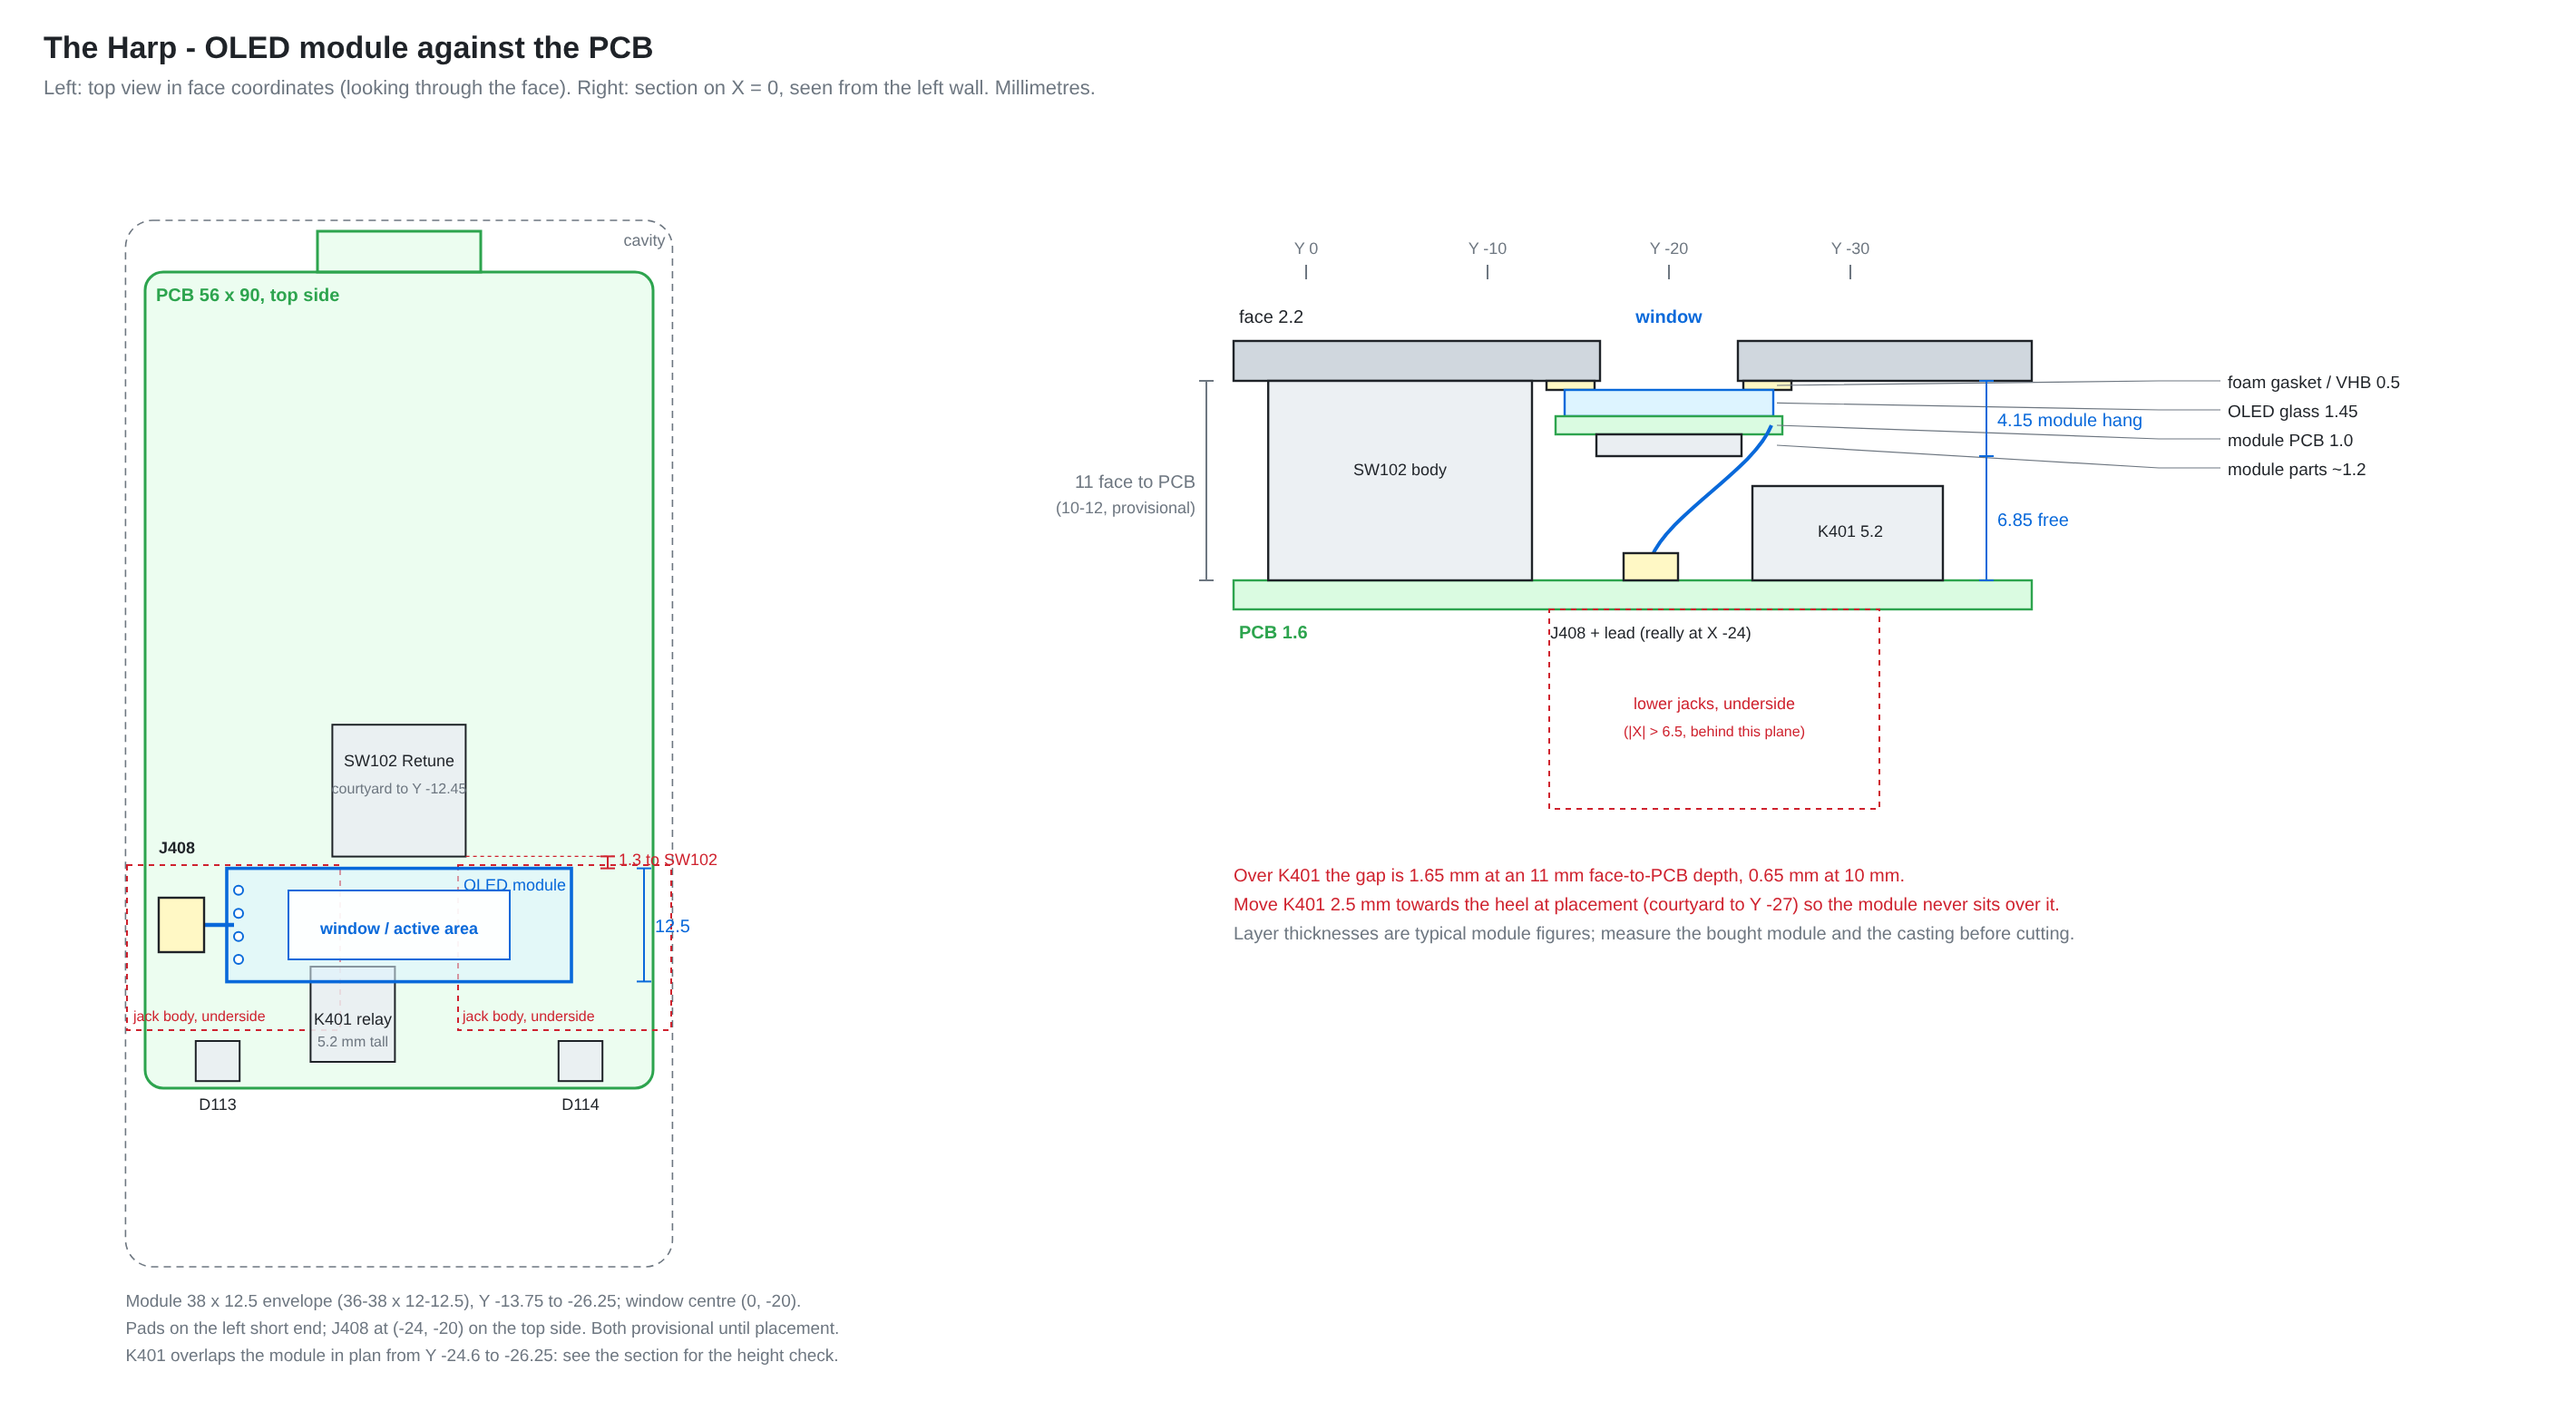
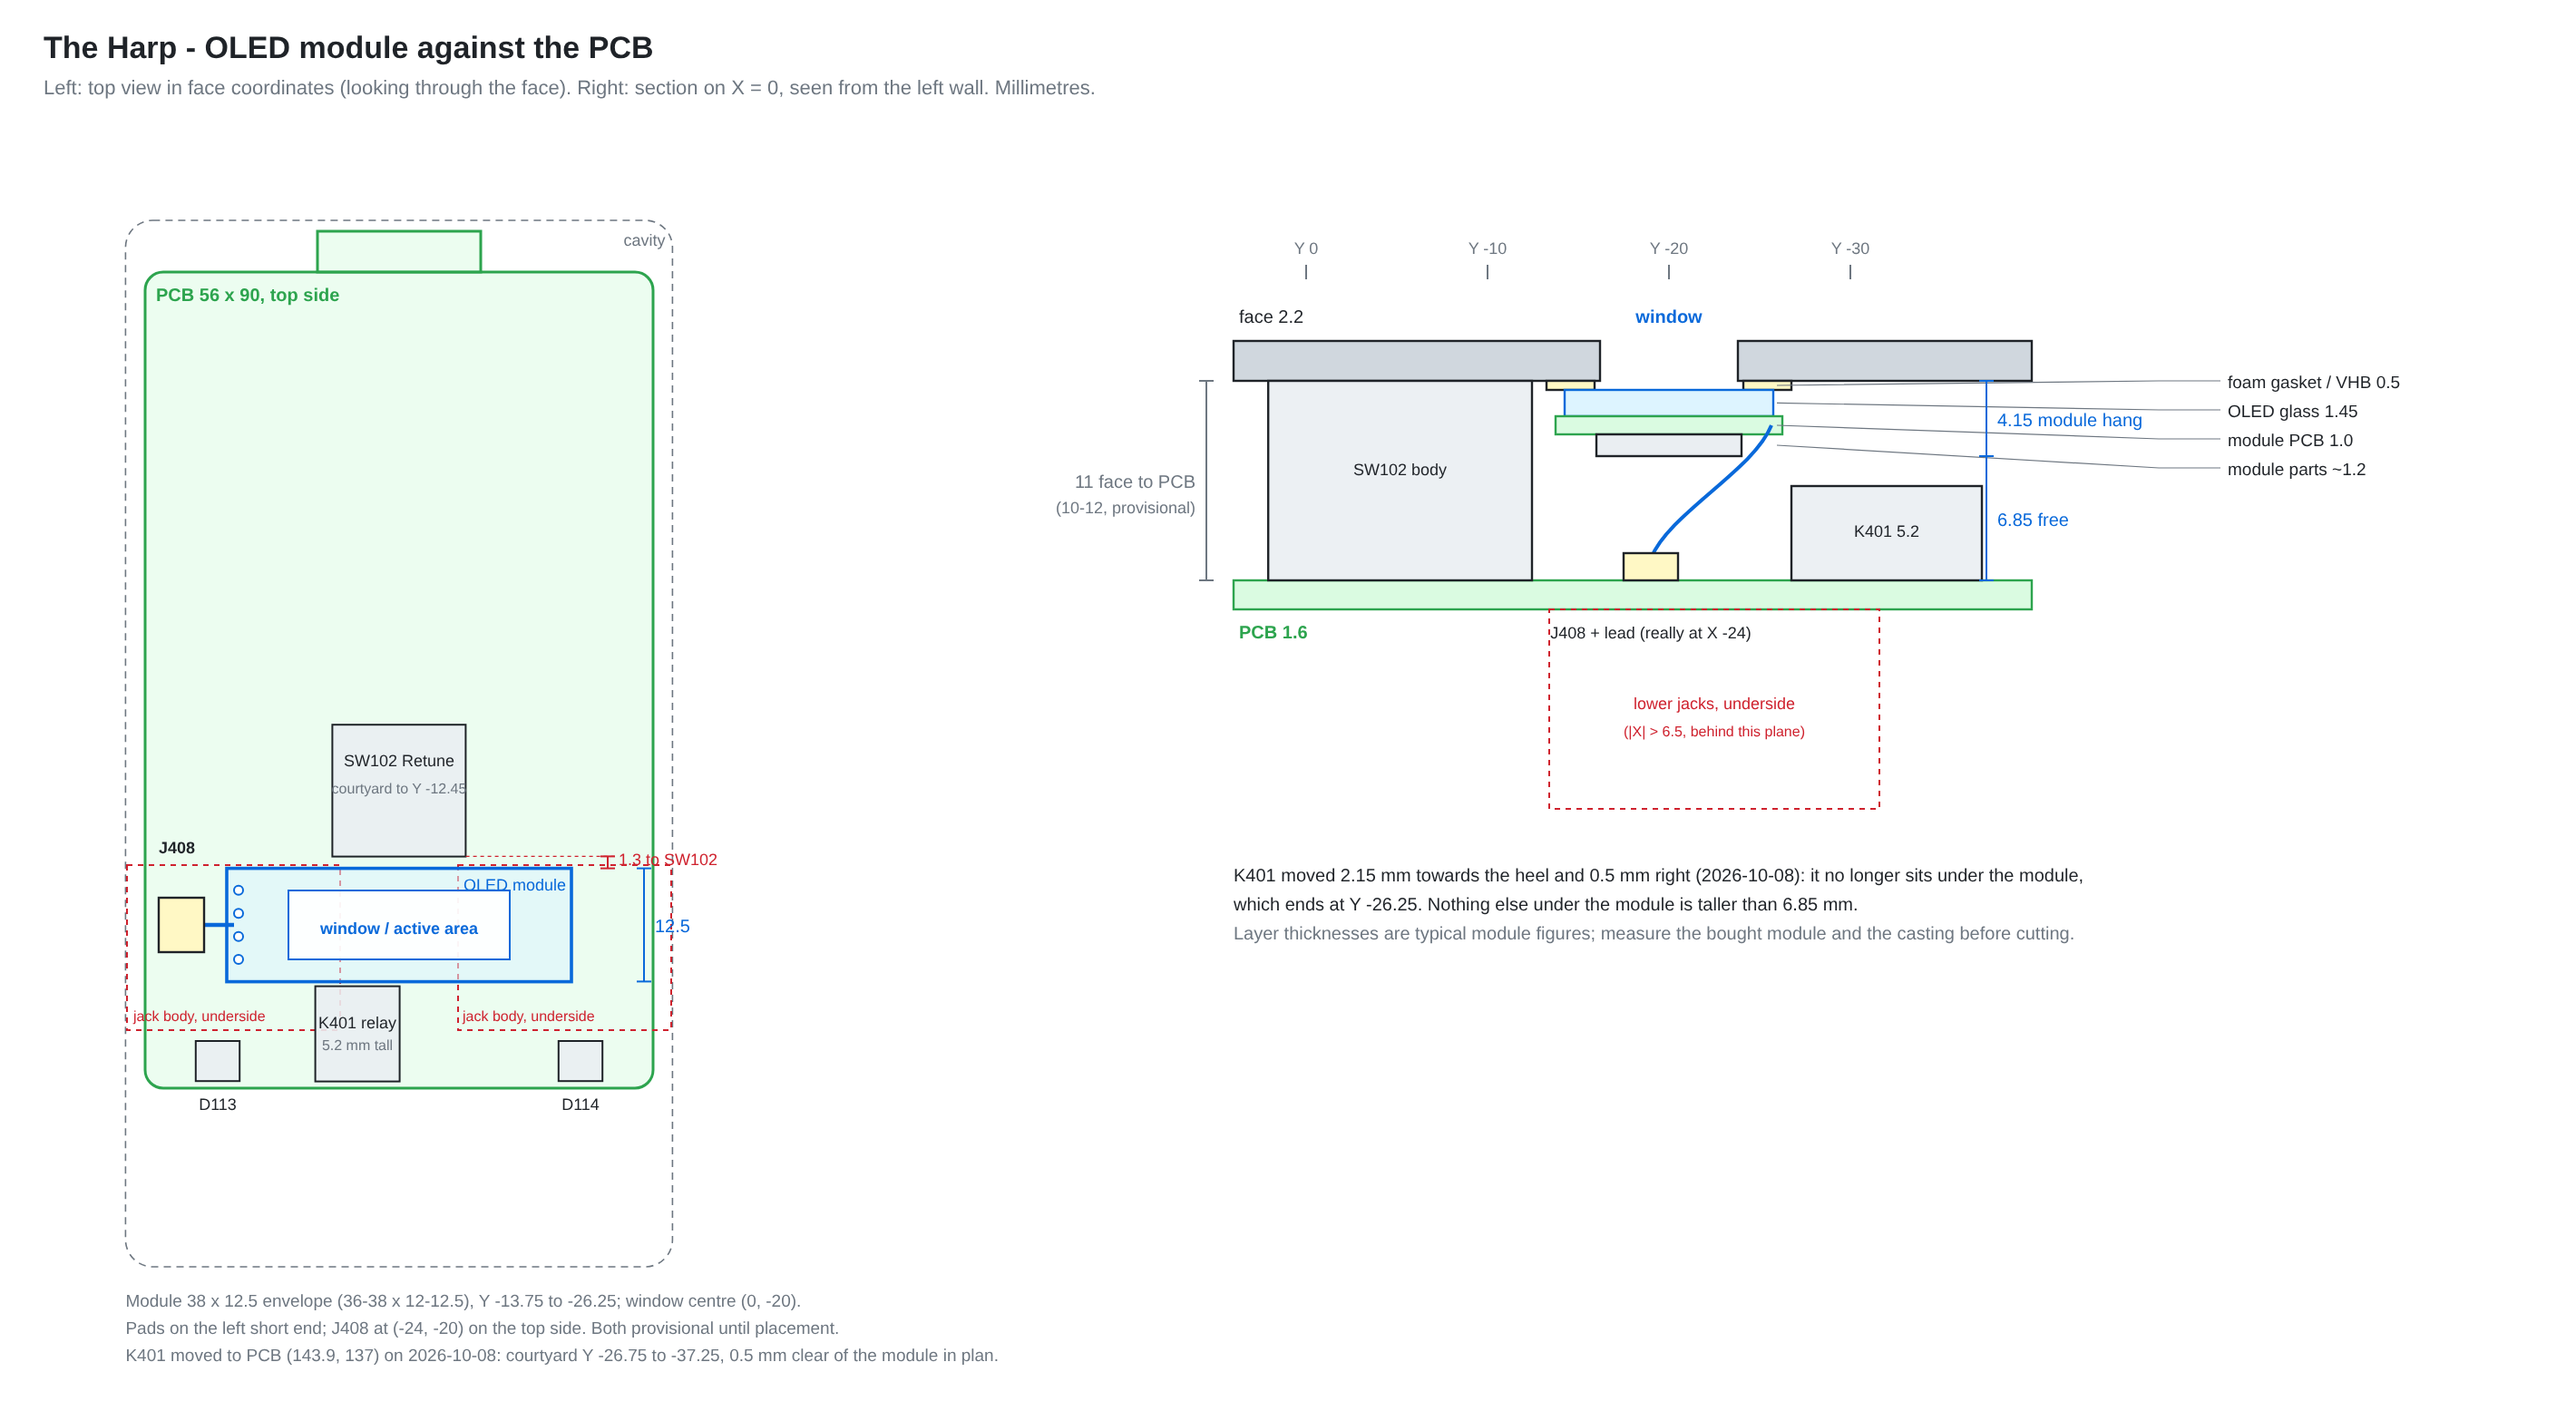
Move K401 out from under the OLED module
K401 from PCB (143.4, 134.85) to (143.9, 137.0), face (-4.6, -32.0): 2.15 mm
towards the heel and 0.5 mm right. Its courtyard now ends 0.5 mm short of the
module edge (Y -26.25), 0.12 mm clear of Q402 and 0.75 mm from the board edge;
a straight 2.5 mm move would have overlapped Q402. No tracks to move (board
unrouted). Drawing and docs updated.

Claude-Session: https://claude.ai/code/session_016hDejPHPgG8auBLMyByYZK

diff --git a/scripts/oled_drawings/oled_drawings.py b/scripts/oled_drawings/oled_drawings.py
@@ -30,7 +30,7 @@ HOLES = [  # (label, x, y, diameter)
 ]
 # courtyards on the board (face X0, X1, Y0, Y1) and part height above the board
 SW102_CY = (-7.35, 7.35, -12.45, 2.09)
-K401_CY = (-9.75, -0.45, -35.10, -24.60); K401_H = 5.2
+K401_CY = (-9.25, 0.05, -37.25, -26.75); K401_H = 5.2       # moved 2026-10-08, PCB (143.9, 137)
 D113_CY = (-22.42, -17.58, -37.21, -32.79)
 D114_CY = (17.58, 22.42, -37.21, -32.79)
 JACK_LO = [(-30.0, -6.5, -31.6, -13.4), (6.5, 30.0, -31.6, -13.4)]     # lower jack bodies, underside
@@ -169,8 +169,8 @@ def pcb_relation():
     s.text(*P(0, -2.5), 'SW102 Retune', 9, INK, 'middle')
     s.text(*P(0, -5.5), 'courtyard to Y -12.45', 8, MUTED, 'middle')
     box(K401_CY, INK, '#eaeef2', op=0.9)
-    s.text(*P(-5.1, -31.0), 'K401 relay', 9, INK, 'middle')
-    s.text(*P(-5.1, -33.4), '5.2 mm tall', 8, MUTED, 'middle')
+    s.text(*P(-4.6, -31.4), 'K401 relay', 9, INK, 'middle')
+    s.text(*P(-4.6, -33.8), '5.2 mm tall', 8, MUTED, 'middle')
     for cy, lb in ((D113_CY, 'D113'), (D114_CY, 'D114')):
         box(cy, INK, '#eaeef2', op=0.9)
         s.text(*P((cy[0] + cy[1]) / 2, cy[2] - 3.2), lb, 9, INK, 'middle')
@@ -192,7 +192,7 @@ def pcb_relation():
     s.text(P(mx1, 0)[0] + 26, P(0, my1)[1] - 2, f'{SW102_CY[2] - my1:.1f} to SW102', 9, WARN)
     notes = [f'Module {MODULE[0]:g} x {MODULE[1]} envelope (36-38 x 12-12.5), Y {my1:.2f} to {my0:.2f}; window centre (0, {OLED_Y:g}).',
              'Pads on the left short end; J408 at (-24, -20) on the top side. Both provisional until placement.',
-             'K401 overlaps the module in plan from Y -24.6 to -26.25: see the section for the height check.']
+             'K401 moved to PCB (143.9, 137) on 2026-10-08: courtyard Y -26.75 to -37.25, 0.5 mm clear of the module in plan.']
     for k, t in enumerate(notes):
         s.text(OX - CAV_W / 2 * S, OY + CAV_H / 2 * S + 22 + 15 * k, t, 9.5, MUTED)
     # ------------------------------------------------ section on X = 0
@@ -233,7 +233,7 @@ def pcb_relation():
     slab(SW102_CY[3], SW102_CY[2], 0, BOARD_GAP, INK, '#eaeef2', 0.9)
     s.text(*Q((SW102_CY[2] + SW102_CY[3]) / 2, 5.2), 'SW102 body', 9, INK, 'middle')
     slab(K401_CY[3], K401_CY[2], BOARD_GAP - K401_H, BOARD_GAP, INK, '#eaeef2', 0.9)
-    s.text(*Q(-30, BOARD_GAP - 2.4), 'K401 5.2', 9, INK, 'middle')
+    s.text(*Q(-32, BOARD_GAP - 2.4), 'K401 5.2', 9, INK, 'middle')
     xa, za = Q(-13.4, BOARD_GAP + BOARD_T); xb, zb = Q(-31.6, BOARD_GAP + BOARD_T + 11)
     s.rect(xa, za, xb - xa, zb - za, WARN, 'none', 1, '3 3')
     s.text(*Q(-22.5, BOARD_GAP + BOARD_T + 5.5), 'lower jacks, underside', 9, WARN, 'middle')
@@ -251,9 +251,8 @@ def pcb_relation():
     s.text(Q(YL + 1.5, 0)[0] - 6, Q(0, BOARD_GAP / 2)[1] + 18, '(10-12, provisional)', 9, MUTED, 'end')
     ty = Q(0, BOARD_GAP + BOARD_T + 15)[1]
     for k, (t, c) in enumerate([
-        (f'Over K401 the gap is {BOARD_GAP - hang - K401_H:.2f} mm at an 11 mm face-to-PCB depth, '
-         f'{10 - hang - K401_H:.2f} mm at 10 mm.', WARN),
-        ('Move K401 2.5 mm towards the heel at placement (courtyard to Y -27) so the module never sits over it.', WARN),
+        ('K401 moved 2.15 mm towards the heel and 0.5 mm right (2026-10-08): it no longer sits under the module,', INK),
+        (f'which ends at Y {OLED_Y - MODULE[1] / 2:g}. Nothing else under the module is taller than {BOARD_GAP - hang:.2f} mm.', INK),
         ('Layer thicknesses are typical module figures; measure the bought module and the casting before cutting.', MUTED)]):
         s.text(Q(YL, 0)[0], ty + 16 * k, t, 10, c)
     s.save('oled-pcb-relation.svg')

diff --git a/Documents/Z04-R-0001-A_The_Harp_Design_Report/chapters/05_pcb_mechanical.tex b/Documents/Z04-R-0001-A_The_Harp_Design_Report/chapters/05_pcb_mechanical.tex
@@ -75,7 +75,7 @@ The 0.91\,in module (envelope 36--38\,mm by 12--12.5\,mm, active area 22.384\,mm
 
 The module hangs from the face, not the PCB: a 3D-printed carrier, as the Timekeeper's TFT frame, is bonded to the inside of the face with VHB tape, with a 0.5\,mm foam gasket round the glass. It is not screwed to the board because the lower jack bodies sit under the board at $|X| > 6.5$ and the MCU fills the middle. Four wires run from the module pads to \req{J408}, a JST SH 4-way on the top side at about face ($-24$, $-20$).
 
-The module hangs about 4.15\,mm below the face, leaving 6.85\,mm to the PCB at the provisional 11\,mm depth. The relay \req{K401}, 5.2\,mm tall, overlaps the module in plan from Y $-24.6$ to $-26.25$ with only 1.65\,mm to spare, so it moves 2.5\,mm towards the heel at placement. The drawings are in \texttt{docs/images/oled-face-cutout.png} and \texttt{docs/images/oled-pcb-relation.png}.
+The module hangs about 4.15\,mm below the face, leaving 6.85\,mm to the PCB at the provisional 11\,mm depth. The relay \req{K401}, 5.2\,mm tall, overlapped the module in plan from Y $-24.6$ to $-26.25$ with only 1.65\,mm to spare, so on 2026-10-08 it was moved 2.15\,mm towards the heel and 0.5\,mm right, to face ($-4.6$, $-32.0$); its courtyard now ends 0.5\,mm short of the module edge. The drawings are in \texttt{docs/images/oled-face-cutout.png} and \texttt{docs/images/oled-pcb-relation.png}.
 
 \section{Zoning}
 Signal runs right to left as on The Alchemist: IN and EXP enter on the right wall, OUT~L and OUT~R leave on the left. The input and expression buffers sit at the right-hand end of the lower band next to \req{J402}/\req{J406}, the output buffers and the relay at the left-hand end next to \req{J403}/\req{J404}, and the H750 with the flash in the middle. The codec, its VCOM buffers and the ADC driver sit under the pot rows. The buck converter and its inductor sit on the DC tab, as far from the input buffer as the board allows.

diff --git a/Documents/Z04-R-0001-A_The_Harp_Design_Report/chapters/08_risks_open_items.tex b/Documents/Z04-R-0001-A_The_Harp_Design_Report/chapters/08_risks_open_items.tex
@@ -7,7 +7,7 @@
   \item \textbf{CPU load} of 24 strings, Jawari and the tracker together has not been measured.
   \item \textbf{Internal flash.} Whether the image fits the H750's 128\,KB is unknown.
   \item \textbf{AK4621EF lifecycle,} already flagged in the Timekeeper's BOM audit.
-  \item \textbf{OLED over the relay}: the module hangs within 1.65\,mm of \req{K401} unless the relay moves 2.5\,mm towards the heel at placement.
+  \item \textbf{Height under the OLED}: parts placed under the module must stay below about 6.8\,mm; \req{K401} was moved out from under it on 2026-10-08.
 \end{itemize}
 
 \section{Open Items}
@@ -45,7 +45,7 @@ Writing this report found three small disagreements, to be corrected at the sour
   \item \textbf{Firmware first on the Timekeeper board.} String bank with a fixed tuning, then Jawari, then the tuning manager in Key and Drone modes. Measure the CPU load and settle the TBC ranges by ear.
   \item Chord tracker and Follow mode, offline against reference recordings, then on the board.
   \item Open the schematic in KiCad and run ERC. Close the confirmation items.
-  \item \emph{Update PCB from Schematic}. Place \req{J408} and move \req{K401} to about Y $-32.4$ for the OLED; place the MCU and flash in the centre band, the codec under the pots, the buffers at the jack ends and the buck on the tab. \textbf{Go/no-go for Plan~A.}
+  \item \emph{Update PCB from Schematic}. Place \req{J408} (\req{K401} already moved for the OLED); place the MCU and flash in the centre band, the codec under the pots, the buffers at the jack ends and the buck on the tab. \textbf{Go/no-go for Plan~A.}
   \item GND vias per The Relic's rule, routing (F.Cu short, B.Cu long, In2 power), DRC with The Relic's rules.
   \item Adapt The Relic's BOM exporter, cost at 100, and produce the Tayda drill schedule from the face table.
   \item Fix the wall-hole heights from the measured Alchemist and Relic assembly.

diff --git a/docs/pcb-plan.md b/docs/pcb-plan.md
@@ -140,13 +140,16 @@ figures below and the footprint courtyards in `The Harp.kicad_pcb`.
 - **Heights.** Face 2.2 mm; below it the gasket 0.5, glass 1.45, module PCB
   1.0 and its parts about 1.2: the module hangs 4.15 mm, leaving 6.85 mm to
   the PCB at the provisional 11 mm face-to-PCB depth (10–12 mm).
-- **Relay K401 under the module.** The relay seeded from The Relic has its
-  courtyard at Y −24.6 to −35.1 and is 5.2 mm tall, so it overlaps the
-  module in plan from −24.6 to −26.25 with only 1.65 mm vertical clearance
-  (0.65 mm at a 10 mm depth). **Move K401 2.5 mm towards the heel at
-  placement** (centre to about Y −32.4, courtyard to −27.1), which clears
-  D113/D114 and the footswitch pads. Keep everything else under the module
-  below 5 mm.
+- **Relay K401 moved clear of the module (2026-10-08).** Seeded from The
+  Relic at PCB (143.4, 134.85), its courtyard (Y −24.6 to −35.1, 5.2 mm
+  tall) overlapped the module in plan from −24.6 to −26.25 with only
+  1.65 mm vertical clearance (0.65 mm at a 10 mm depth). It is now at PCB
+  (143.9, 137.0), face (−4.6, −32.0): 2.15 mm towards the heel and 0.5 mm
+  right, courtyard X −9.25 to +0.05, Y −26.75 to −37.25. That is 0.5 mm
+  clear of the module edge in plan, 0.12 mm clear of Q402's courtyard and
+  0.75 mm from the board edge at −38 (a straight 2.5 mm move would have
+  overlapped Q402 and come within 0.4 mm of the edge). Not yet routed.
+  Keep everything else under the module below about 6.8 mm.
 - **Still to check.** Measure the bought module (pad end, glass position
   on its board, thickness) and the casting depth, then confirm the window
   centre lies on the active area and the carrier height.
@@ -289,8 +292,8 @@ Differences from the Timekeeper, all deliberate:
    items: the OPA2365 1 kHz noise figure on its data sheet plot (estimated
    about 11 nV/√Hz; capacitive-load stability is checked, see below), QUADSPI bank 2 AFs, AK4621 unused-input handling, THS4522
    unused-channel handling.
-5. ERC, then *Update PCB from Schematic*; place J408, move K401 to about Y −32.4
-   (see *OLED mounting*); place MCU/flash in the centre band,
+5. ERC, then *Update PCB from Schematic*; place J408 (K401 already moved for the
+   OLED, see *OLED mounting*); place MCU/flash in the centre band,
    codec under the pots, buffers at the jack ends, buck on the tab. **Go/no-go
    for Plan A here.**
 6. GND vias per the Relic rule, route (F.Cu short, B.Cu long, In2 power),

diff --git a/docs/design-brief.md b/docs/design-brief.md
@@ -217,7 +217,7 @@ labour. Nothing carted.
   Mitigation: The Relic's four-layer stack with one unbroken ground plane,
   zoning in `pcb-plan.md`, buck converter at the DC end away from the input.
 - AK4621EF lifecycle (already flagged in the Timekeeper's BOM audit).
-- The OLED module hangs from the face over the relay with about 1.65 mm to spare at an 11 mm face-to-PCB depth; K401 moves 2.5 mm towards the heel at placement (`pcb-plan.md`, *OLED mounting*).
+- The OLED module hangs from the face over the relay zone; K401 was moved 2.15 mm towards the heel on 2026-10-08 so it no longer sits under the module (`pcb-plan.md`, *OLED mounting*). Parts placed under the module later must stay below about 6.8 mm.
 
 ## Decisions taken on 2026-10-08
 
